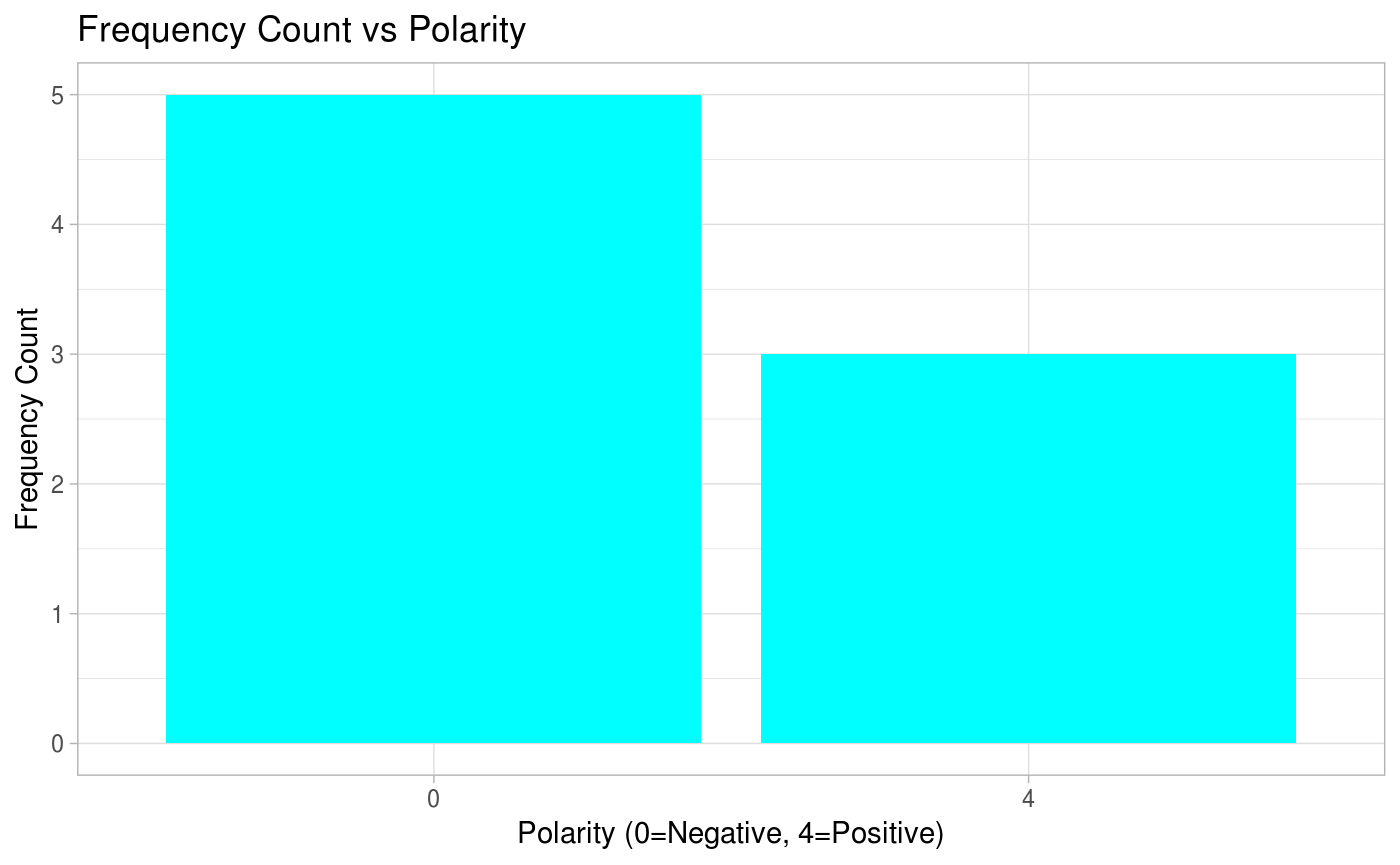
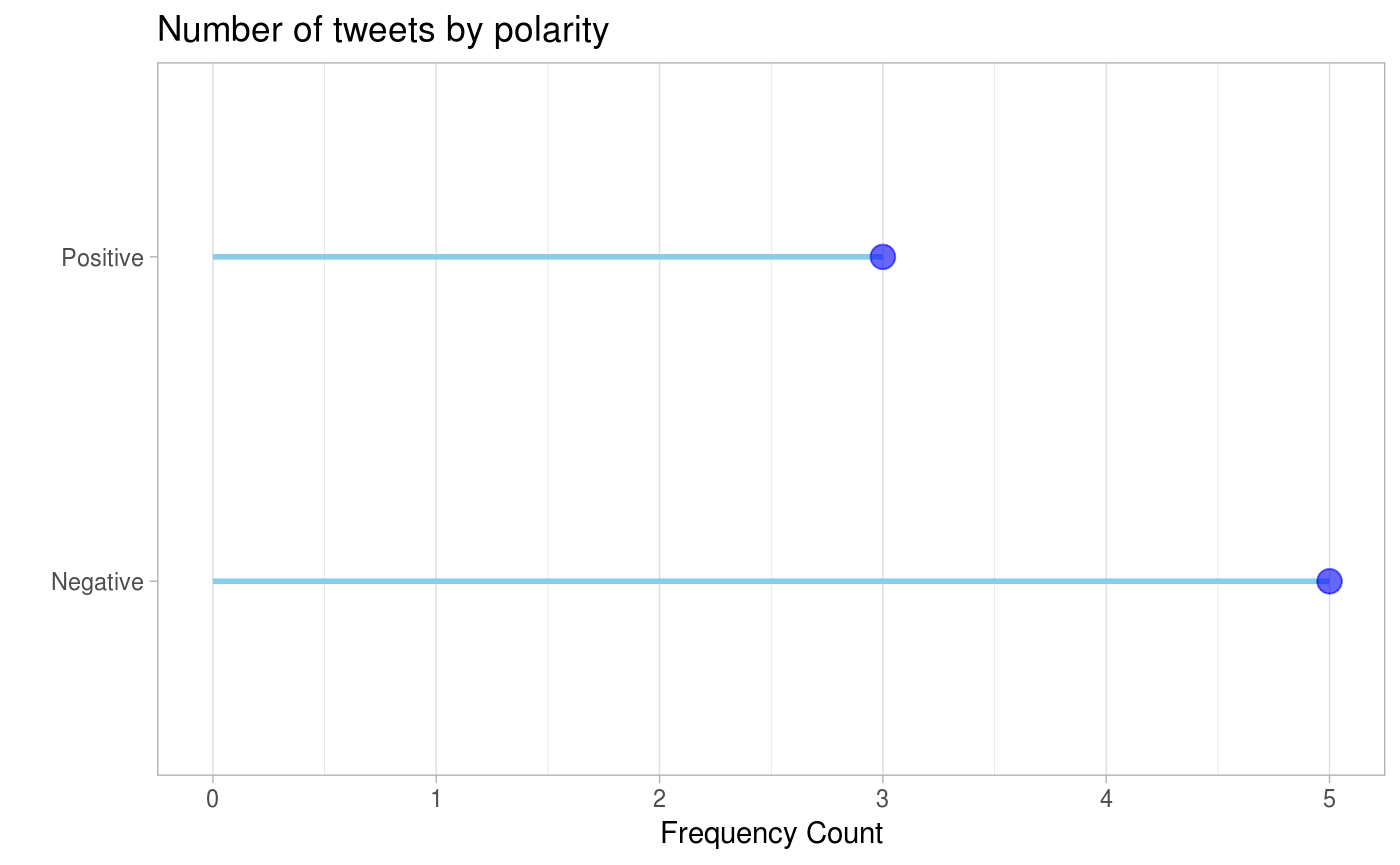
Built site for deepSentimentR: 0.1.0@d7b65b5

diff --git a/index.html b/index.html
@@ -106,36 +106,35 @@ install.packages("deepSentimentR")
 <p>This is a basic example which shows you how to solve a common problem:</p>
 <div class="sourceCode" id="cb2"><pre class="sourceCode r"><code class="sourceCode r"><a class="sourceLine" id="cb2-1" data-line-number="1"><span class="kw"><a href="https://www.rdocumentation.org/packages/base/topics/library">library</a></span>(dplyr)</a>
 <a class="sourceLine" id="cb2-2" data-line-number="2"><span class="kw"><a href="https://www.rdocumentation.org/packages/base/topics/library">library</a></span>(deepSentimentR)</a>
-<a class="sourceLine" id="cb2-3" data-line-number="3">## basic example code</a>
-<a class="sourceLine" id="cb2-4" data-line-number="4"><span class="kw"><a href="https://www.rdocumentation.org/packages/utils/topics/data">data</a></span>(<span class="st">"sentiment140_train"</span>)</a>
-<a class="sourceLine" id="cb2-5" data-line-number="5">sentiment140_train <span class="op">%&gt;%</span><span class="st"> </span></a>
-<a class="sourceLine" id="cb2-6" data-line-number="6"><span class="st">  </span><span class="kw"><a href="reference/freq_by_polarity.html">freq_by_polarity</a></span>(<span class="dt">user_list =</span> <span class="kw"><a href="https://www.rdocumentation.org/packages/base/topics/c">c</a></span>(<span class="st">""</span>, <span class="st">"mcraddictal"</span>), </a>
-<a class="sourceLine" id="cb2-7" data-line-number="7">                   <span class="dt">start_date_time =</span> lubridate<span class="op">::</span><span class="kw"><a href="http://lubridate.tidyverse.org/reference/as_date.html">as_datetime</a></span>(<span class="st">"2009-05-30"</span>),</a>
-<a class="sourceLine" id="cb2-8" data-line-number="8">                   <span class="dt">end_date_time =</span> lubridate<span class="op">::</span><span class="kw"><a href="http://lubridate.tidyverse.org/reference/as_date.html">as_datetime</a></span>(<span class="st">"2009-06-03"</span>),</a>
-<a class="sourceLine" id="cb2-9" data-line-number="9">                   <span class="dt">keyword_list =</span> <span class="kw"><a href="https://www.rdocumentation.org/packages/base/topics/c">c</a></span>(<span class="st">""</span>))</a>
-<a class="sourceLine" id="cb2-10" data-line-number="10"><span class="co">#&gt; $raw</span></a>
-<a class="sourceLine" id="cb2-11" data-line-number="11"><span class="co">#&gt; # A tibble: 8 x 14</span></a>
-<a class="sourceLine" id="cb2-12" data-line-number="12"><span class="co">#&gt;   polarity     id date                query user  text  nouns adjectives</span></a>
-<a class="sourceLine" id="cb2-13" data-line-number="13"><span class="co">#&gt;      &lt;int&gt;  &lt;int&gt; &lt;dttm&gt;              &lt;chr&gt; &lt;chr&gt; &lt;chr&gt; &lt;int&gt;      &lt;int&gt;</span></a>
-<a class="sourceLine" id="cb2-14" data-line-number="14"><span class="co">#&gt; 1        0 1.99e9 2009-06-01 16:44:55 NO_Q… mcra… @oy_…     2          1</span></a>
-<a class="sourceLine" id="cb2-15" data-line-number="15"><span class="co">#&gt; 2        0 1.99e9 2009-06-01 06:34:38 NO_Q… mcra… @hem…     3          2</span></a>
-<a class="sourceLine" id="cb2-16" data-line-number="16"><span class="co">#&gt; 3        0 1.97e9 2009-05-30 05:32:26 NO_Q… mcra… @wes…     1          2</span></a>
-<a class="sourceLine" id="cb2-17" data-line-number="17"><span class="co">#&gt; 4        4 1.98e9 2009-05-31 17:31:47 NO_Q… mcra… nd I…     3          1</span></a>
-<a class="sourceLine" id="cb2-18" data-line-number="18"><span class="co">#&gt; 5        0 1.98e9 2009-05-31 15:39:18 NO_Q… mcra… @CRs…     3          1</span></a>
-<a class="sourceLine" id="cb2-19" data-line-number="19"><span class="co">#&gt; 6        0 1.97e9 2009-05-30 13:19:07 NO_Q… mcra… @oy_…     2          2</span></a>
-<a class="sourceLine" id="cb2-20" data-line-number="20"><span class="co">#&gt; 7        4 1.97e9 2009-05-30 01:31:51 NO_Q… mcra… @kit…     2          1</span></a>
-<a class="sourceLine" id="cb2-21" data-line-number="21"><span class="co">#&gt; 8        4 1.98e9 2009-05-31 00:06:28 NO_Q… mcra… @sca…     5          1</span></a>
-<a class="sourceLine" id="cb2-22" data-line-number="22"><span class="co">#&gt; # … with 6 more variables: prepositions &lt;int&gt;, articles &lt;int&gt;,</span></a>
-<a class="sourceLine" id="cb2-23" data-line-number="23"><span class="co">#&gt; #   pronouns &lt;int&gt;, verbs &lt;int&gt;, adverbs &lt;int&gt;, interjections &lt;int&gt;</span></a>
-<a class="sourceLine" id="cb2-24" data-line-number="24"><span class="co">#&gt; </span></a>
-<a class="sourceLine" id="cb2-25" data-line-number="25"><span class="co">#&gt; $frequency</span></a>
-<a class="sourceLine" id="cb2-26" data-line-number="26"><span class="co">#&gt; # A tibble: 2 x 2</span></a>
-<a class="sourceLine" id="cb2-27" data-line-number="27"><span class="co">#&gt;   polarity counts</span></a>
-<a class="sourceLine" id="cb2-28" data-line-number="28"><span class="co">#&gt;   &lt;fct&gt;     &lt;int&gt;</span></a>
-<a class="sourceLine" id="cb2-29" data-line-number="29"><span class="co">#&gt; 1 0             5</span></a>
-<a class="sourceLine" id="cb2-30" data-line-number="30"><span class="co">#&gt; 2 4             3</span></a>
-<a class="sourceLine" id="cb2-31" data-line-number="31"><span class="co">#&gt; </span></a>
-<a class="sourceLine" id="cb2-32" data-line-number="32"><span class="co">#&gt; $plot</span></a></code></pre></div>
+<a class="sourceLine" id="cb2-3" data-line-number="3"><span class="kw"><a href="https://www.rdocumentation.org/packages/utils/topics/data">data</a></span>(<span class="st">"sentiment140_train"</span>)</a>
+<a class="sourceLine" id="cb2-4" data-line-number="4">sentiment140_train <span class="op">%&gt;%</span><span class="st"> </span></a>
+<a class="sourceLine" id="cb2-5" data-line-number="5"><span class="st">  </span><span class="kw"><a href="reference/freq_by_polarity.html">freq_by_polarity</a></span>(<span class="dt">user_list =</span> <span class="kw"><a href="https://www.rdocumentation.org/packages/base/topics/c">c</a></span>(<span class="st">""</span>, <span class="st">"mcraddictal"</span>), </a>
+<a class="sourceLine" id="cb2-6" data-line-number="6">                   <span class="dt">start_date_time =</span> lubridate<span class="op">::</span><span class="kw"><a href="http://lubridate.tidyverse.org/reference/as_date.html">as_datetime</a></span>(<span class="st">"2009-05-30"</span>),</a>
+<a class="sourceLine" id="cb2-7" data-line-number="7">                   <span class="dt">end_date_time =</span> lubridate<span class="op">::</span><span class="kw"><a href="http://lubridate.tidyverse.org/reference/as_date.html">as_datetime</a></span>(<span class="st">"2009-06-03"</span>),</a>
+<a class="sourceLine" id="cb2-8" data-line-number="8">                   <span class="dt">keyword_list =</span> <span class="kw"><a href="https://www.rdocumentation.org/packages/base/topics/c">c</a></span>(<span class="st">""</span>))</a>
+<a class="sourceLine" id="cb2-9" data-line-number="9"><span class="co">#&gt; $raw</span></a>
+<a class="sourceLine" id="cb2-10" data-line-number="10"><span class="co">#&gt; # A tibble: 8 x 14</span></a>
+<a class="sourceLine" id="cb2-11" data-line-number="11"><span class="co">#&gt;   polarity     id date                query user  text  nouns adjectives</span></a>
+<a class="sourceLine" id="cb2-12" data-line-number="12"><span class="co">#&gt;   &lt;chr&gt;     &lt;int&gt; &lt;dttm&gt;              &lt;chr&gt; &lt;chr&gt; &lt;chr&gt; &lt;int&gt;      &lt;int&gt;</span></a>
+<a class="sourceLine" id="cb2-13" data-line-number="13"><span class="co">#&gt; 1 Negative 1.99e9 2009-06-01 16:44:55 NO_Q… mcra… @oy_…     2          1</span></a>
+<a class="sourceLine" id="cb2-14" data-line-number="14"><span class="co">#&gt; 2 Negative 1.99e9 2009-06-01 06:34:38 NO_Q… mcra… @hem…     3          2</span></a>
+<a class="sourceLine" id="cb2-15" data-line-number="15"><span class="co">#&gt; 3 Negative 1.97e9 2009-05-30 05:32:26 NO_Q… mcra… @wes…     1          2</span></a>
+<a class="sourceLine" id="cb2-16" data-line-number="16"><span class="co">#&gt; 4 Positive 1.98e9 2009-05-31 17:31:47 NO_Q… mcra… nd I…     3          1</span></a>
+<a class="sourceLine" id="cb2-17" data-line-number="17"><span class="co">#&gt; 5 Negative 1.98e9 2009-05-31 15:39:18 NO_Q… mcra… @CRs…     3          1</span></a>
+<a class="sourceLine" id="cb2-18" data-line-number="18"><span class="co">#&gt; 6 Negative 1.97e9 2009-05-30 13:19:07 NO_Q… mcra… @oy_…     2          2</span></a>
+<a class="sourceLine" id="cb2-19" data-line-number="19"><span class="co">#&gt; 7 Positive 1.97e9 2009-05-30 01:31:51 NO_Q… mcra… @kit…     2          1</span></a>
+<a class="sourceLine" id="cb2-20" data-line-number="20"><span class="co">#&gt; 8 Positive 1.98e9 2009-05-31 00:06:28 NO_Q… mcra… @sca…     5          1</span></a>
+<a class="sourceLine" id="cb2-21" data-line-number="21"><span class="co">#&gt; # … with 6 more variables: prepositions &lt;int&gt;, articles &lt;int&gt;,</span></a>
+<a class="sourceLine" id="cb2-22" data-line-number="22"><span class="co">#&gt; #   pronouns &lt;int&gt;, verbs &lt;int&gt;, adverbs &lt;int&gt;, interjections &lt;int&gt;</span></a>
+<a class="sourceLine" id="cb2-23" data-line-number="23"><span class="co">#&gt; </span></a>
+<a class="sourceLine" id="cb2-24" data-line-number="24"><span class="co">#&gt; $frequency</span></a>
+<a class="sourceLine" id="cb2-25" data-line-number="25"><span class="co">#&gt; # A tibble: 2 x 2</span></a>
+<a class="sourceLine" id="cb2-26" data-line-number="26"><span class="co">#&gt;   polarity counts</span></a>
+<a class="sourceLine" id="cb2-27" data-line-number="27"><span class="co">#&gt;   &lt;fct&gt;     &lt;int&gt;</span></a>
+<a class="sourceLine" id="cb2-28" data-line-number="28"><span class="co">#&gt; 1 Negative      5</span></a>
+<a class="sourceLine" id="cb2-29" data-line-number="29"><span class="co">#&gt; 2 Positive      3</span></a>
+<a class="sourceLine" id="cb2-30" data-line-number="30"><span class="co">#&gt; </span></a>
+<a class="sourceLine" id="cb2-31" data-line-number="31"><span class="co">#&gt; $plot</span></a></code></pre></div>
 <p><img src="reference/figures/README-example-1.png" width="100%"></p>
 </div>
 </div>

diff --git a/articles/deepSentimentR.html b/articles/deepSentimentR.html
@@ -110,15 +110,15 @@
 <a class="sourceLine" id="cb1-24" data-line-number="24"><span class="co">#&gt; $raw</span></a>
 <a class="sourceLine" id="cb1-25" data-line-number="25"><span class="co">#&gt; # A tibble: 8 x 14</span></a>
 <a class="sourceLine" id="cb1-26" data-line-number="26"><span class="co">#&gt;   polarity     id date                query user  text  nouns adjectives</span></a>
-<a class="sourceLine" id="cb1-27" data-line-number="27"><span class="co">#&gt;      &lt;int&gt;  &lt;int&gt; &lt;dttm&gt;              &lt;chr&gt; &lt;chr&gt; &lt;chr&gt; &lt;int&gt;      &lt;int&gt;</span></a>
-<a class="sourceLine" id="cb1-28" data-line-number="28"><span class="co">#&gt; 1        0 1.99e9 2009-06-01 16:44:55 NO_Q… mcra… @oy_…     2          1</span></a>
-<a class="sourceLine" id="cb1-29" data-line-number="29"><span class="co">#&gt; 2        0 1.99e9 2009-06-01 06:34:38 NO_Q… mcra… @hem…     3          2</span></a>
-<a class="sourceLine" id="cb1-30" data-line-number="30"><span class="co">#&gt; 3        0 1.97e9 2009-05-30 05:32:26 NO_Q… mcra… @wes…     1          2</span></a>
-<a class="sourceLine" id="cb1-31" data-line-number="31"><span class="co">#&gt; 4        4 1.98e9 2009-05-31 17:31:47 NO_Q… mcra… nd I…     3          1</span></a>
-<a class="sourceLine" id="cb1-32" data-line-number="32"><span class="co">#&gt; 5        0 1.98e9 2009-05-31 15:39:18 NO_Q… mcra… @CRs…     3          1</span></a>
-<a class="sourceLine" id="cb1-33" data-line-number="33"><span class="co">#&gt; 6        0 1.97e9 2009-05-30 13:19:07 NO_Q… mcra… @oy_…     2          2</span></a>
-<a class="sourceLine" id="cb1-34" data-line-number="34"><span class="co">#&gt; 7        4 1.97e9 2009-05-30 01:31:51 NO_Q… mcra… @kit…     2          1</span></a>
-<a class="sourceLine" id="cb1-35" data-line-number="35"><span class="co">#&gt; 8        4 1.98e9 2009-05-31 00:06:28 NO_Q… mcra… @sca…     5          1</span></a>
+<a class="sourceLine" id="cb1-27" data-line-number="27"><span class="co">#&gt;   &lt;chr&gt;     &lt;int&gt; &lt;dttm&gt;              &lt;chr&gt; &lt;chr&gt; &lt;chr&gt; &lt;int&gt;      &lt;int&gt;</span></a>
+<a class="sourceLine" id="cb1-28" data-line-number="28"><span class="co">#&gt; 1 Negative 1.99e9 2009-06-01 16:44:55 NO_Q… mcra… @oy_…     2          1</span></a>
+<a class="sourceLine" id="cb1-29" data-line-number="29"><span class="co">#&gt; 2 Negative 1.99e9 2009-06-01 06:34:38 NO_Q… mcra… @hem…     3          2</span></a>
+<a class="sourceLine" id="cb1-30" data-line-number="30"><span class="co">#&gt; 3 Negative 1.97e9 2009-05-30 05:32:26 NO_Q… mcra… @wes…     1          2</span></a>
+<a class="sourceLine" id="cb1-31" data-line-number="31"><span class="co">#&gt; 4 Positive 1.98e9 2009-05-31 17:31:47 NO_Q… mcra… nd I…     3          1</span></a>
+<a class="sourceLine" id="cb1-32" data-line-number="32"><span class="co">#&gt; 5 Negative 1.98e9 2009-05-31 15:39:18 NO_Q… mcra… @CRs…     3          1</span></a>
+<a class="sourceLine" id="cb1-33" data-line-number="33"><span class="co">#&gt; 6 Negative 1.97e9 2009-05-30 13:19:07 NO_Q… mcra… @oy_…     2          2</span></a>
+<a class="sourceLine" id="cb1-34" data-line-number="34"><span class="co">#&gt; 7 Positive 1.97e9 2009-05-30 01:31:51 NO_Q… mcra… @kit…     2          1</span></a>
+<a class="sourceLine" id="cb1-35" data-line-number="35"><span class="co">#&gt; 8 Positive 1.98e9 2009-05-31 00:06:28 NO_Q… mcra… @sca…     5          1</span></a>
 <a class="sourceLine" id="cb1-36" data-line-number="36"><span class="co">#&gt; # … with 6 more variables: prepositions &lt;int&gt;, articles &lt;int&gt;,</span></a>
 <a class="sourceLine" id="cb1-37" data-line-number="37"><span class="co">#&gt; #   pronouns &lt;int&gt;, verbs &lt;int&gt;, adverbs &lt;int&gt;, interjections &lt;int&gt;</span></a>
 <a class="sourceLine" id="cb1-38" data-line-number="38"><span class="co">#&gt; </span></a>
@@ -126,8 +126,8 @@
 <a class="sourceLine" id="cb1-40" data-line-number="40"><span class="co">#&gt; # A tibble: 2 x 2</span></a>
 <a class="sourceLine" id="cb1-41" data-line-number="41"><span class="co">#&gt;   polarity counts</span></a>
 <a class="sourceLine" id="cb1-42" data-line-number="42"><span class="co">#&gt;   &lt;fct&gt;     &lt;int&gt;</span></a>
-<a class="sourceLine" id="cb1-43" data-line-number="43"><span class="co">#&gt; 1 0             5</span></a>
-<a class="sourceLine" id="cb1-44" data-line-number="44"><span class="co">#&gt; 2 4             3</span></a>
+<a class="sourceLine" id="cb1-43" data-line-number="43"><span class="co">#&gt; 1 Negative      5</span></a>
+<a class="sourceLine" id="cb1-44" data-line-number="44"><span class="co">#&gt; 2 Positive      3</span></a>
 <a class="sourceLine" id="cb1-45" data-line-number="45"><span class="co">#&gt; </span></a>
 <a class="sourceLine" id="cb1-46" data-line-number="46"><span class="co">#&gt; $plot</span></a></code></pre></div>
 <p><img src="deepSentimentR_files/figure-html/setup-1.png" width="700"></p>
